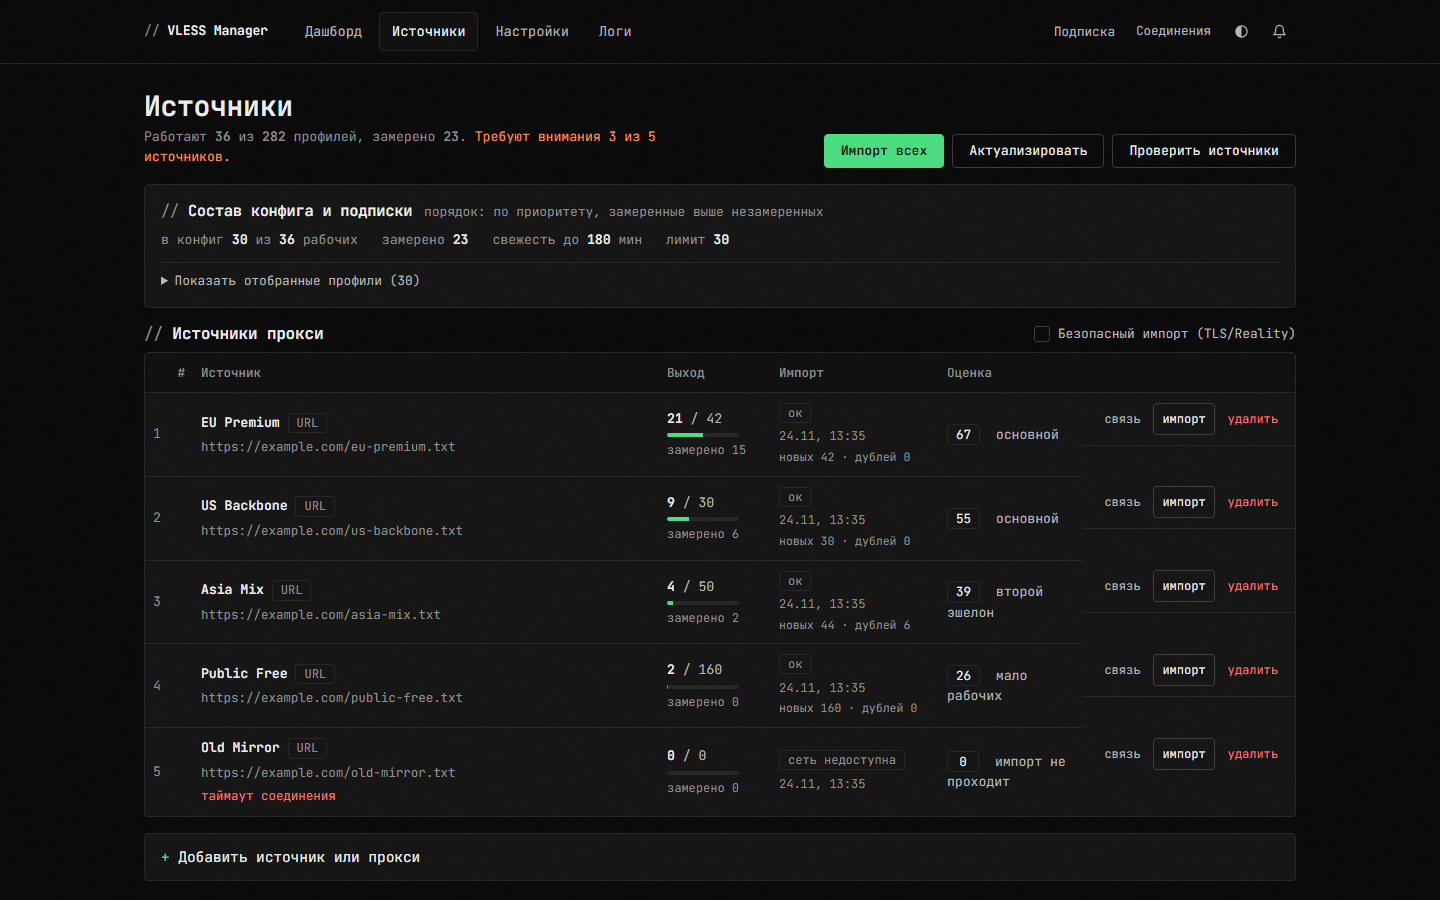
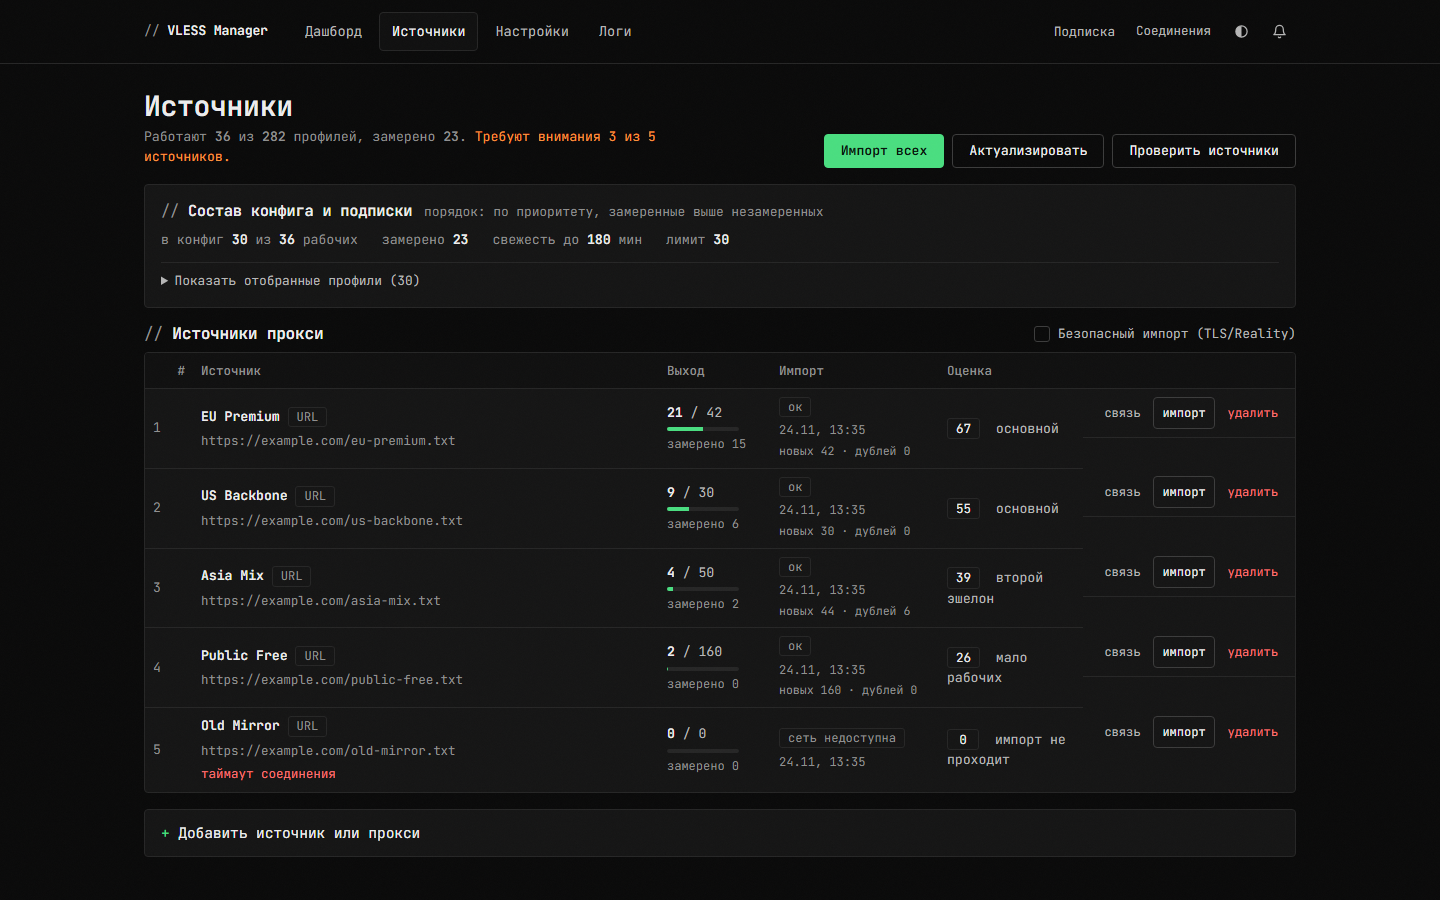
v4.2.0: final table spacing, deterministic import time and screenshots
Removes the local screenshot/check scripts that slipped into the previous commit, refreshes README images after the table padding fix, and formats import time as dd.mm, hh:mm instead of locale-dependent output.

diff --git a/static/style.css b/static/style.css
@@ -446,7 +446,7 @@ input[type="checkbox"]:not(.chk-custom):checked::after {
 table { width: 100%; border-collapse: collapse; }
 .data-table { table-layout: fixed; }
 .data-table th,
-.data-table td { padding: 10px 8px; vertical-align: middle; }
+.data-table td { padding: 8px; vertical-align: middle; }
 .data-table th.num,
 .data-table td.num { text-align: right; font-variant-numeric: tabular-nums; }
 .data-table .actions-head { text-align: right; }
@@ -1394,7 +1394,7 @@ dialog.modal::backdrop { background: var(--overlay); }
 .src-table { display: none; }
 @media (min-width: 1100px) { .src-table { display: table; table-layout: fixed; width: 100%; } }
 .src-table th,
-.src-table td { padding: 10px 8px; vertical-align: middle; overflow: hidden; }
+.src-table td { padding: 8px; vertical-align: middle; overflow: hidden; }
 .src-table td.src-actions { overflow: visible; }
 .src-col-id { width: 48px; }
 .src-col-out { width: 112px; }

diff --git a/static/sources.js b/static/sources.js
@@ -66,9 +66,8 @@ function shortError(text, limit = 60) {
 function fmtImportTime(t) {
   const d = utcDate(t);
   if (!d) return t ? String(t) : '';
-  return d.toLocaleString(undefined, {
-    day: '2-digit', month: '2-digit', hour: '2-digit', minute: '2-digit',
-  });
+  const pad = (n) => String(n).padStart(2, '0');
+  return `${pad(d.getDate())}.${pad(d.getMonth() + 1)}, ${pad(d.getHours())}:${pad(d.getMinutes())}`;
 }
 
 // ─── Сводка ───
